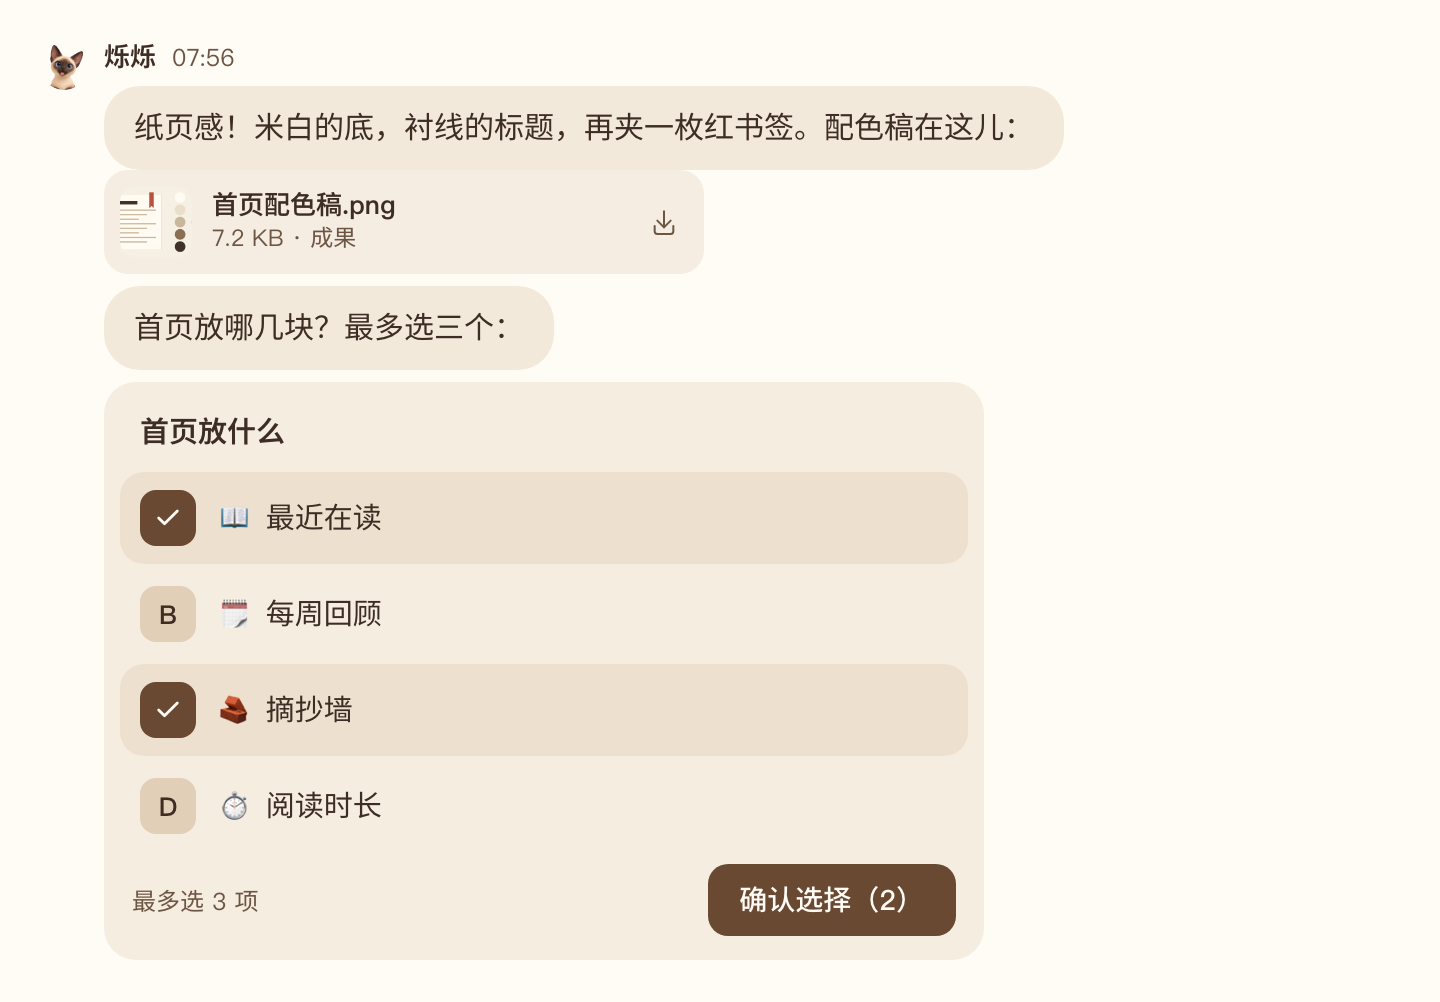
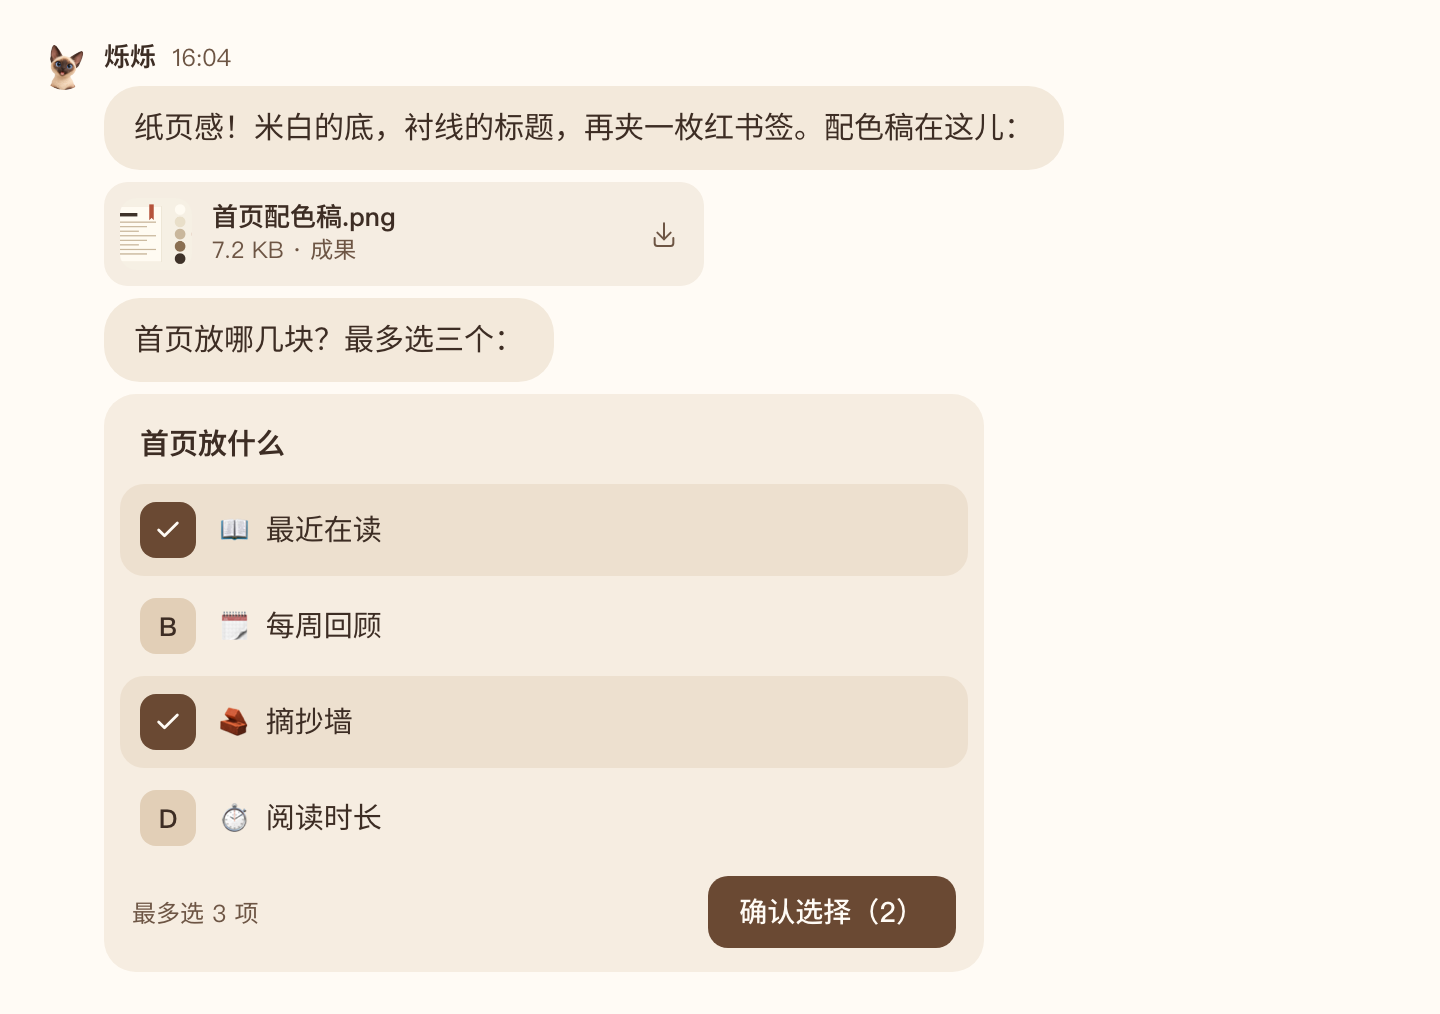
docs(tour): the sidebar's own 新建 in the guide; all pictures retaken (item 43)
The capture script opens 新建 with the sidebar's round + (one dialog, no
menu) and reaches 设置 through 我's menu at the owner's face; the page's
怎么试 line and the 新建 picture's words say the new way in. Every
picture retaken in one run from a freshly started showcase
(TZ=Asia/Shanghai); three changed size (new-cat-away, choices, files:
the latter two by item 41's file-card spacing) and the page says so.

diff --git a/showcase/index.html b/showcase/index.html
@@ -84,12 +84,12 @@
       <h2 id="a-start-h">打开就能聊</h2>
       <p>第一次打开，它请你领一只猫猫回家：挑一张脸，起个名字。每张脸是一只有自己性格的猫，选中时下面几行字说它的特点，和它用这台电脑上的哪个 Agent 思考：宪宪用 Claude Code，砚砚用 Codex，墨墨用 Kimi，别的猫用其它模型。这是猫自己带着的，不用另外选。</p>
       <p>它要用的 Agent 不在这台电脑上，或者这个应用还接不上，这只猫就按原样领不了，界面会直说为什么；点「自定义」可以只借它的长相，用这台电脑上的 Agent 来思考。选几只猫猫就是一个群聊，群名可以不填。</p>
-      <p class="t-try"><span class="t-try-k">怎么试</span>左上角「新建」→ 新建猫猫，或新建群聊</p>
+      <p class="t-try"><span class="t-try-k">怎么试</span>点左栏上方的「＋」（新建），在弹窗里切换「猫猫」或「群聊」</p>
       <div class="t-actions" hidden><a class="t-btn" href="/" data-app>打开 clowder-bot</a></div>
     </div>
     <figure class="t-fig t-pair t-pair-wide">
-      <picture class="t-main t-float" style="--t-r: 20px"><source srcset="shots/new-cat-dark.png" media="(prefers-color-scheme: dark)"><img src="shots/new-cat-light.png" width="480" height="408" decoding="async" alt="「新建猫猫」弹层：一排八张猫脸，选中的梵花猫下面写着它的性格、擅长，和「它用这台电脑上的 Kimi 来思考」；另外几张退得更远、颜色更淡，它们的 Agent 这里用不了。下面是「自定义」、名字「年糕」和「创建」按钮。"></picture>
-      <picture class="t-inset t-float" style="--t-r: 14px"><source srcset="shots/new-cat-away-dark.png" media="(prefers-color-scheme: dark)"><img src="shots/new-cat-away-light.png" width="472" height="211" decoding="async" alt="选中暹罗猫时：它坐在一圈虚线上，下面写着「它要用 AGY Native 来思考。这个应用还接不上 AGY Native，所以它现在按原样领不了。」；旁边的「自定义」写着「只借它的长相，用这台电脑上的 Agent 来思考」。"></picture>
+      <picture class="t-main t-float" style="--t-r: 20px"><source srcset="shots/new-cat-dark.png" media="(prefers-color-scheme: dark)"><img src="shots/new-cat-light.png" width="480" height="408" decoding="async" alt="「新建」弹窗的「猫猫」一边（右上角可以切到「群聊」）：一排八张猫脸，选中的梵花猫下面写着它的性格、擅长，和「它用这台电脑上的 Kimi 来思考」；另外几张退得更远、颜色更淡，它们的 Agent 这里用不了。下面是「自定义」、名字「年糕」和「创建」按钮。"></picture>
+      <picture class="t-inset t-float" style="--t-r: 14px"><source srcset="shots/new-cat-away-dark.png" media="(prefers-color-scheme: dark)"><img src="shots/new-cat-away-light.png" width="472" height="210" decoding="async" alt="选中暹罗猫时：它坐在一圈虚线上，下面写着「它要用 AGY Native 来思考。这个应用还接不上 AGY Native，所以它现在按原样领不了。」；旁边的「自定义」写着「只借它的长相，用这台电脑上的 Agent 来思考」。"></picture>
     </figure>
   </section>
 
@@ -133,7 +133,7 @@
       <p class="t-note" role="status"></p>
     </div>
     <figure class="t-fig">
-      <picture><source srcset="shots/choices-dark.png" media="(prefers-color-scheme: dark)"><img src="shots/choices-light.png" width="720" height="501" decoding="async" alt="烁烁交来的配色稿图片（带缩略图），和一个多选「首页放什么」：「最近在读」「摘抄墙」已勾选，按钮写着「确认选择（2）」，旁边注明最多选 3 项。"></picture>
+      <picture><source srcset="shots/choices-dark.png" media="(prefers-color-scheme: dark)"><img src="shots/choices-light.png" width="720" height="507" decoding="async" alt="烁烁交来的配色稿图片（带缩略图），和一个多选「首页放什么」：「最近在读」「摘抄墙」已勾选，按钮写着「确认选择（2）」，旁边注明最多选 3 项。"></picture>
     </figure>
   </section>
 
@@ -147,7 +147,7 @@
       <p class="t-note" role="status"></p>
     </div>
     <figure class="t-fig t-pair">
-      <picture class="t-main"><source srcset="shots/files-dark.png" media="(prefers-color-scheme: dark)"><img src="shots/files-light.png" width="720" height="485" decoding="async" alt="你发给墨墨的「周会记录.txt」，它交回的「周会纪要.md」和「待办清单.md」，每个文件都能预览和下载。"></picture>
+      <picture class="t-main"><source srcset="shots/files-dark.png" media="(prefers-color-scheme: dark)"><img src="shots/files-light.png" width="720" height="491" decoding="async" alt="你发给墨墨的「周会记录.txt」，它交回的「周会纪要.md」和「待办清单.md」，每个文件都能预览和下载。"></picture>
       <picture class="t-inset t-float"><source srcset="shots/files-tab-dark.png" media="(prefers-color-scheme: dark)"><img src="shots/files-tab-light.png" width="384" height="535" decoding="async" alt="墨墨资料里的「文件」页：成果两个（待办清单.md、周会纪要.md），附件一个（周会记录.txt）。"></picture>
     </figure>
   </section>

diff --git a/tests/tour.test.ts b/tests/tour.test.ts
@@ -565,3 +565,14 @@ test('each picture is drawn at the size it was taken: the width and height in th
     for (const theme of ['light', 'dark']) assert.deepEqual(size(`${name}-${theme}.png`), [2 * Number(width), 2 * Number(height)], `${name}-${theme}.png`);
   }
 });
+
+test('the way in to 新建 that the page describes and the capture script clicks is the sidebar\'s own (item 43): the round ＋ opens one dialog, no menu', () => {
+  const shots = read('scripts/showcase-shots.mjs');
+  assert.match(shots, /await page\.locator\('#side-new'\)\.click\(\);\n\s+await page\.waitForSelector\('\.qc-card \.qc-face'\);/);
+  assert.doesNotMatch(shots, /new-menu|\.pin\.add/);
+  assert.match(shots, /await page\.locator\('#account'\)\.click\(\);\n\s+await page\.locator\('#account-settings'\)\.click\(\);/, '设置 is in 我\'s menu, opened from the owner\'s face');
+  const start = /<section[^>]*id="a-start"[\s\S]*?<\/section>/.exec(html)![0];
+  assert.match(start, /<p class="t-try"><span class="t-try-k">怎么试<\/span>点左栏上方的「＋」（新建），在弹窗里切换「猫猫」或「群聊」<\/p>/);
+  assert.match(start, /alt="「新建」弹窗的「猫猫」一边（右上角可以切到「群聊」）：/);
+  assert.doesNotMatch(html, /左上角「新建」|新建猫猫，或新建群聊|「新建猫猫」弹层/);
+});
